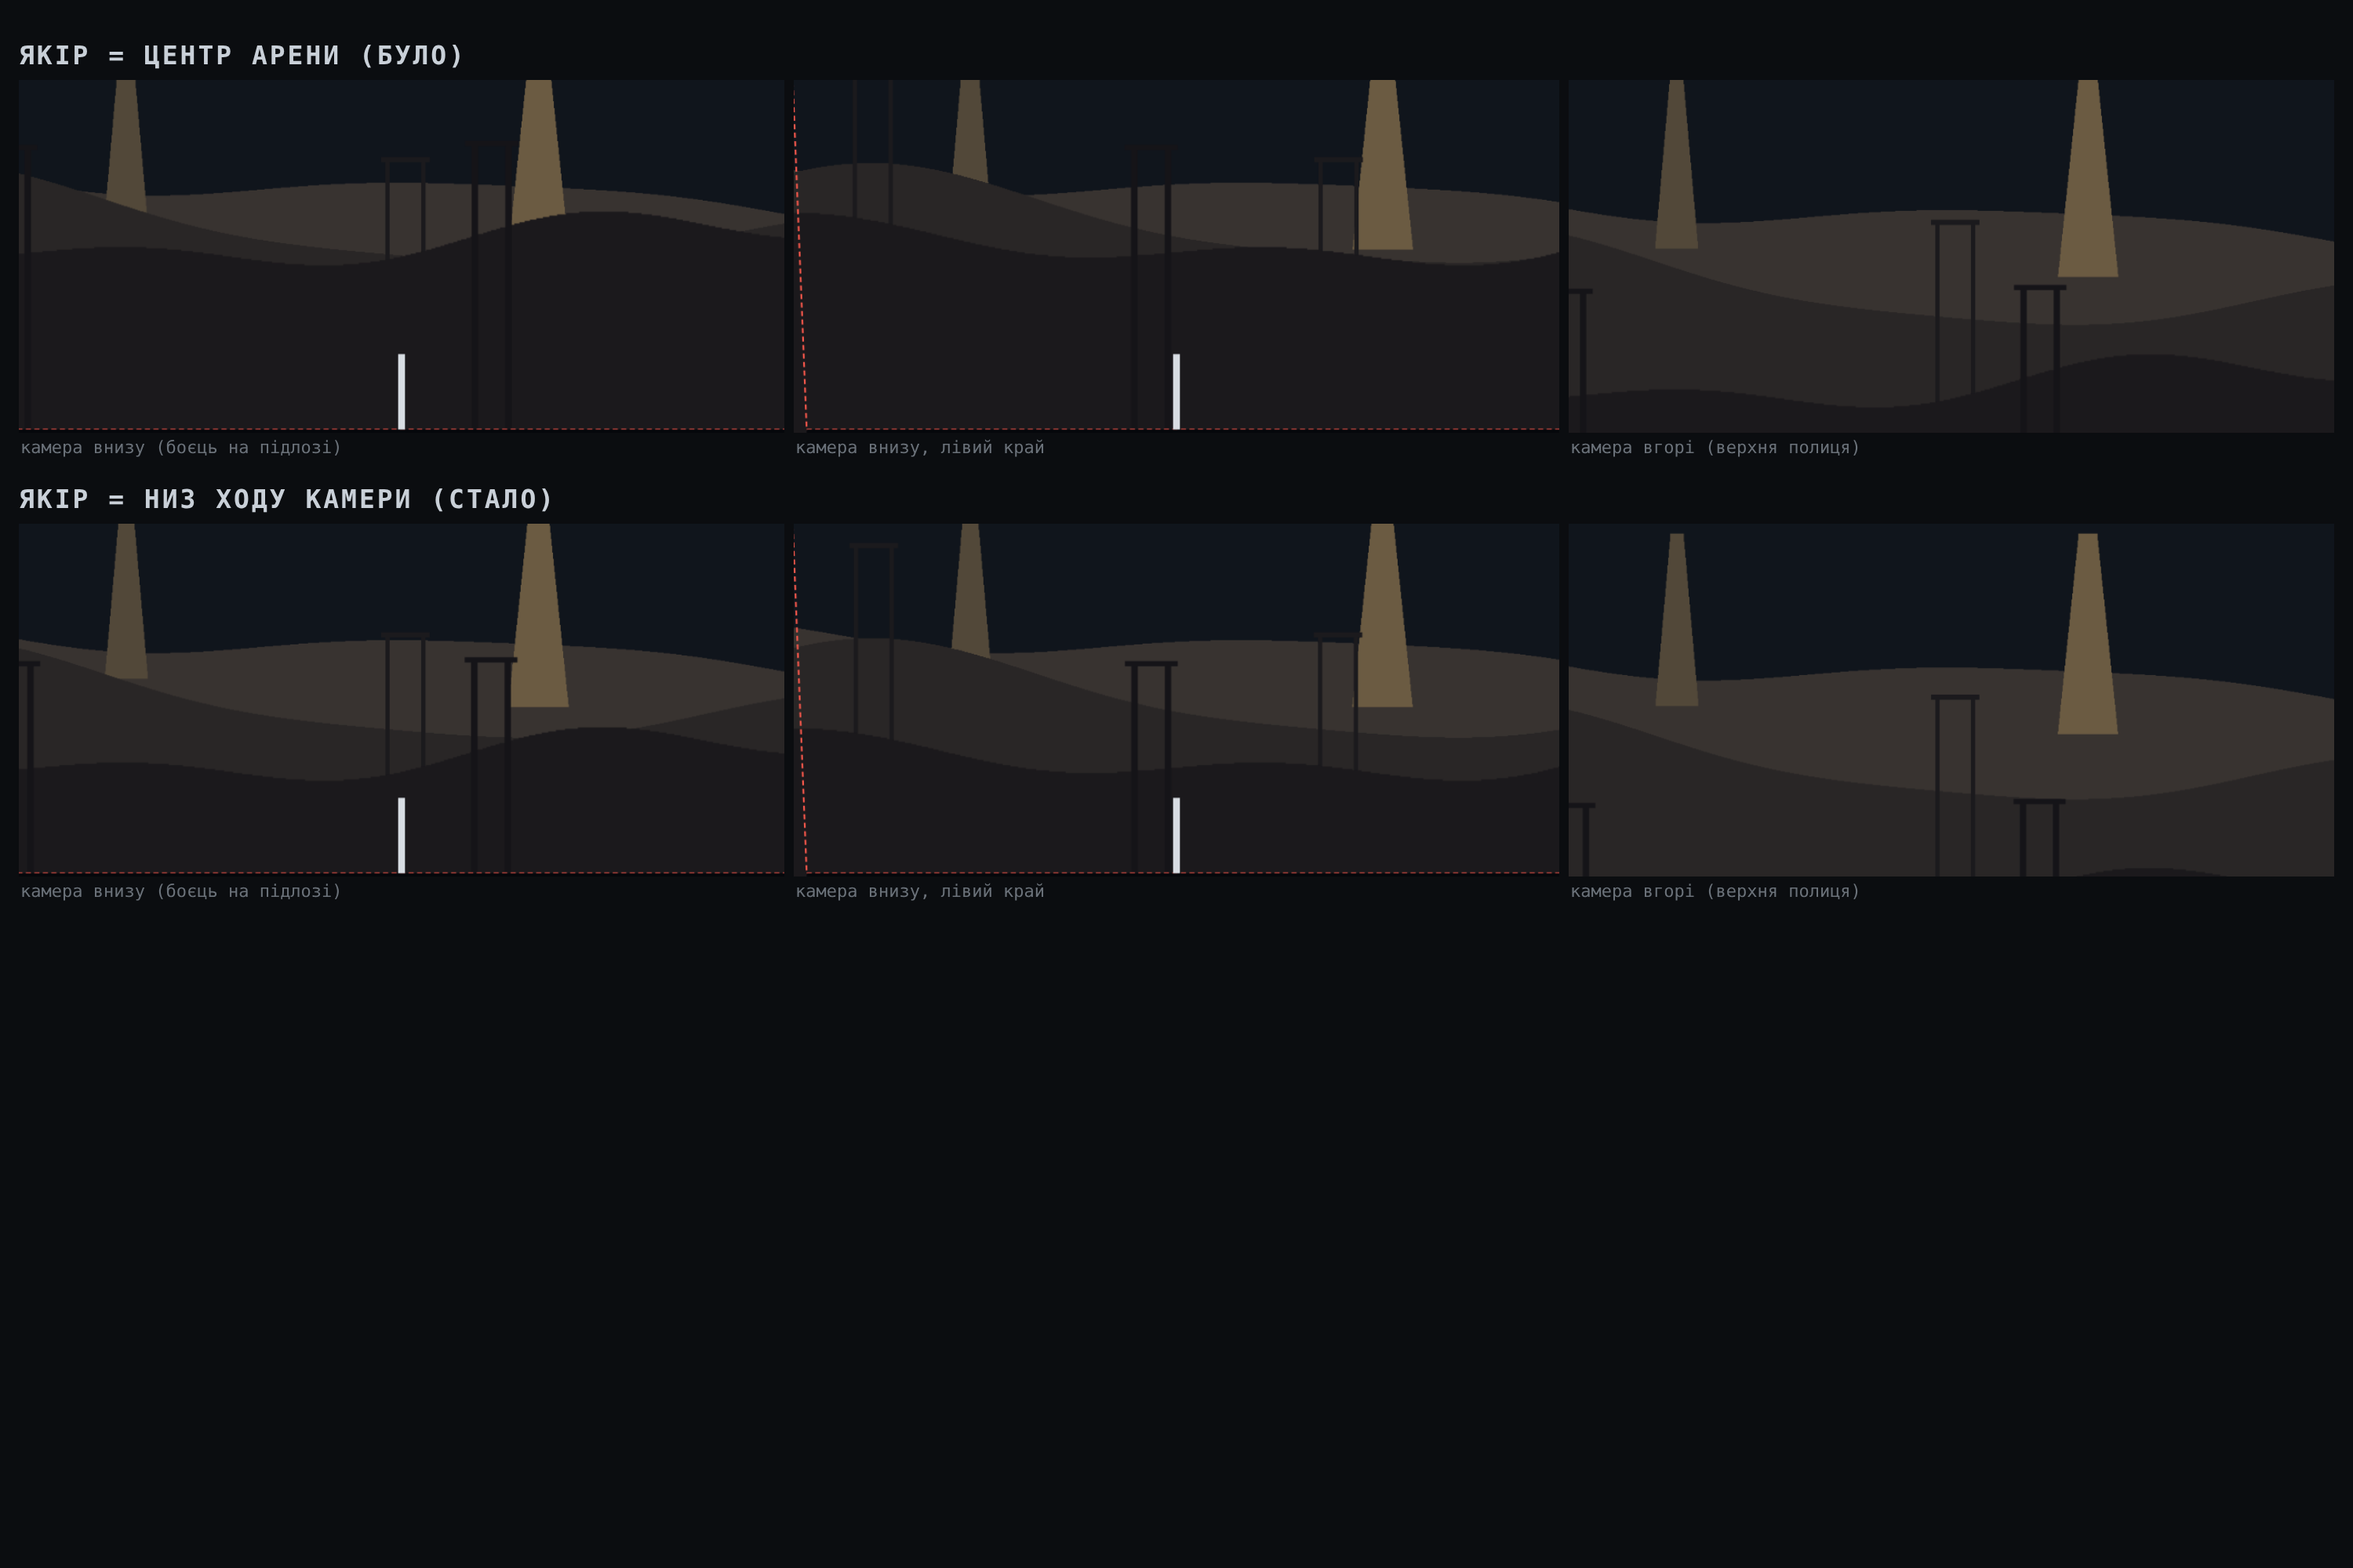
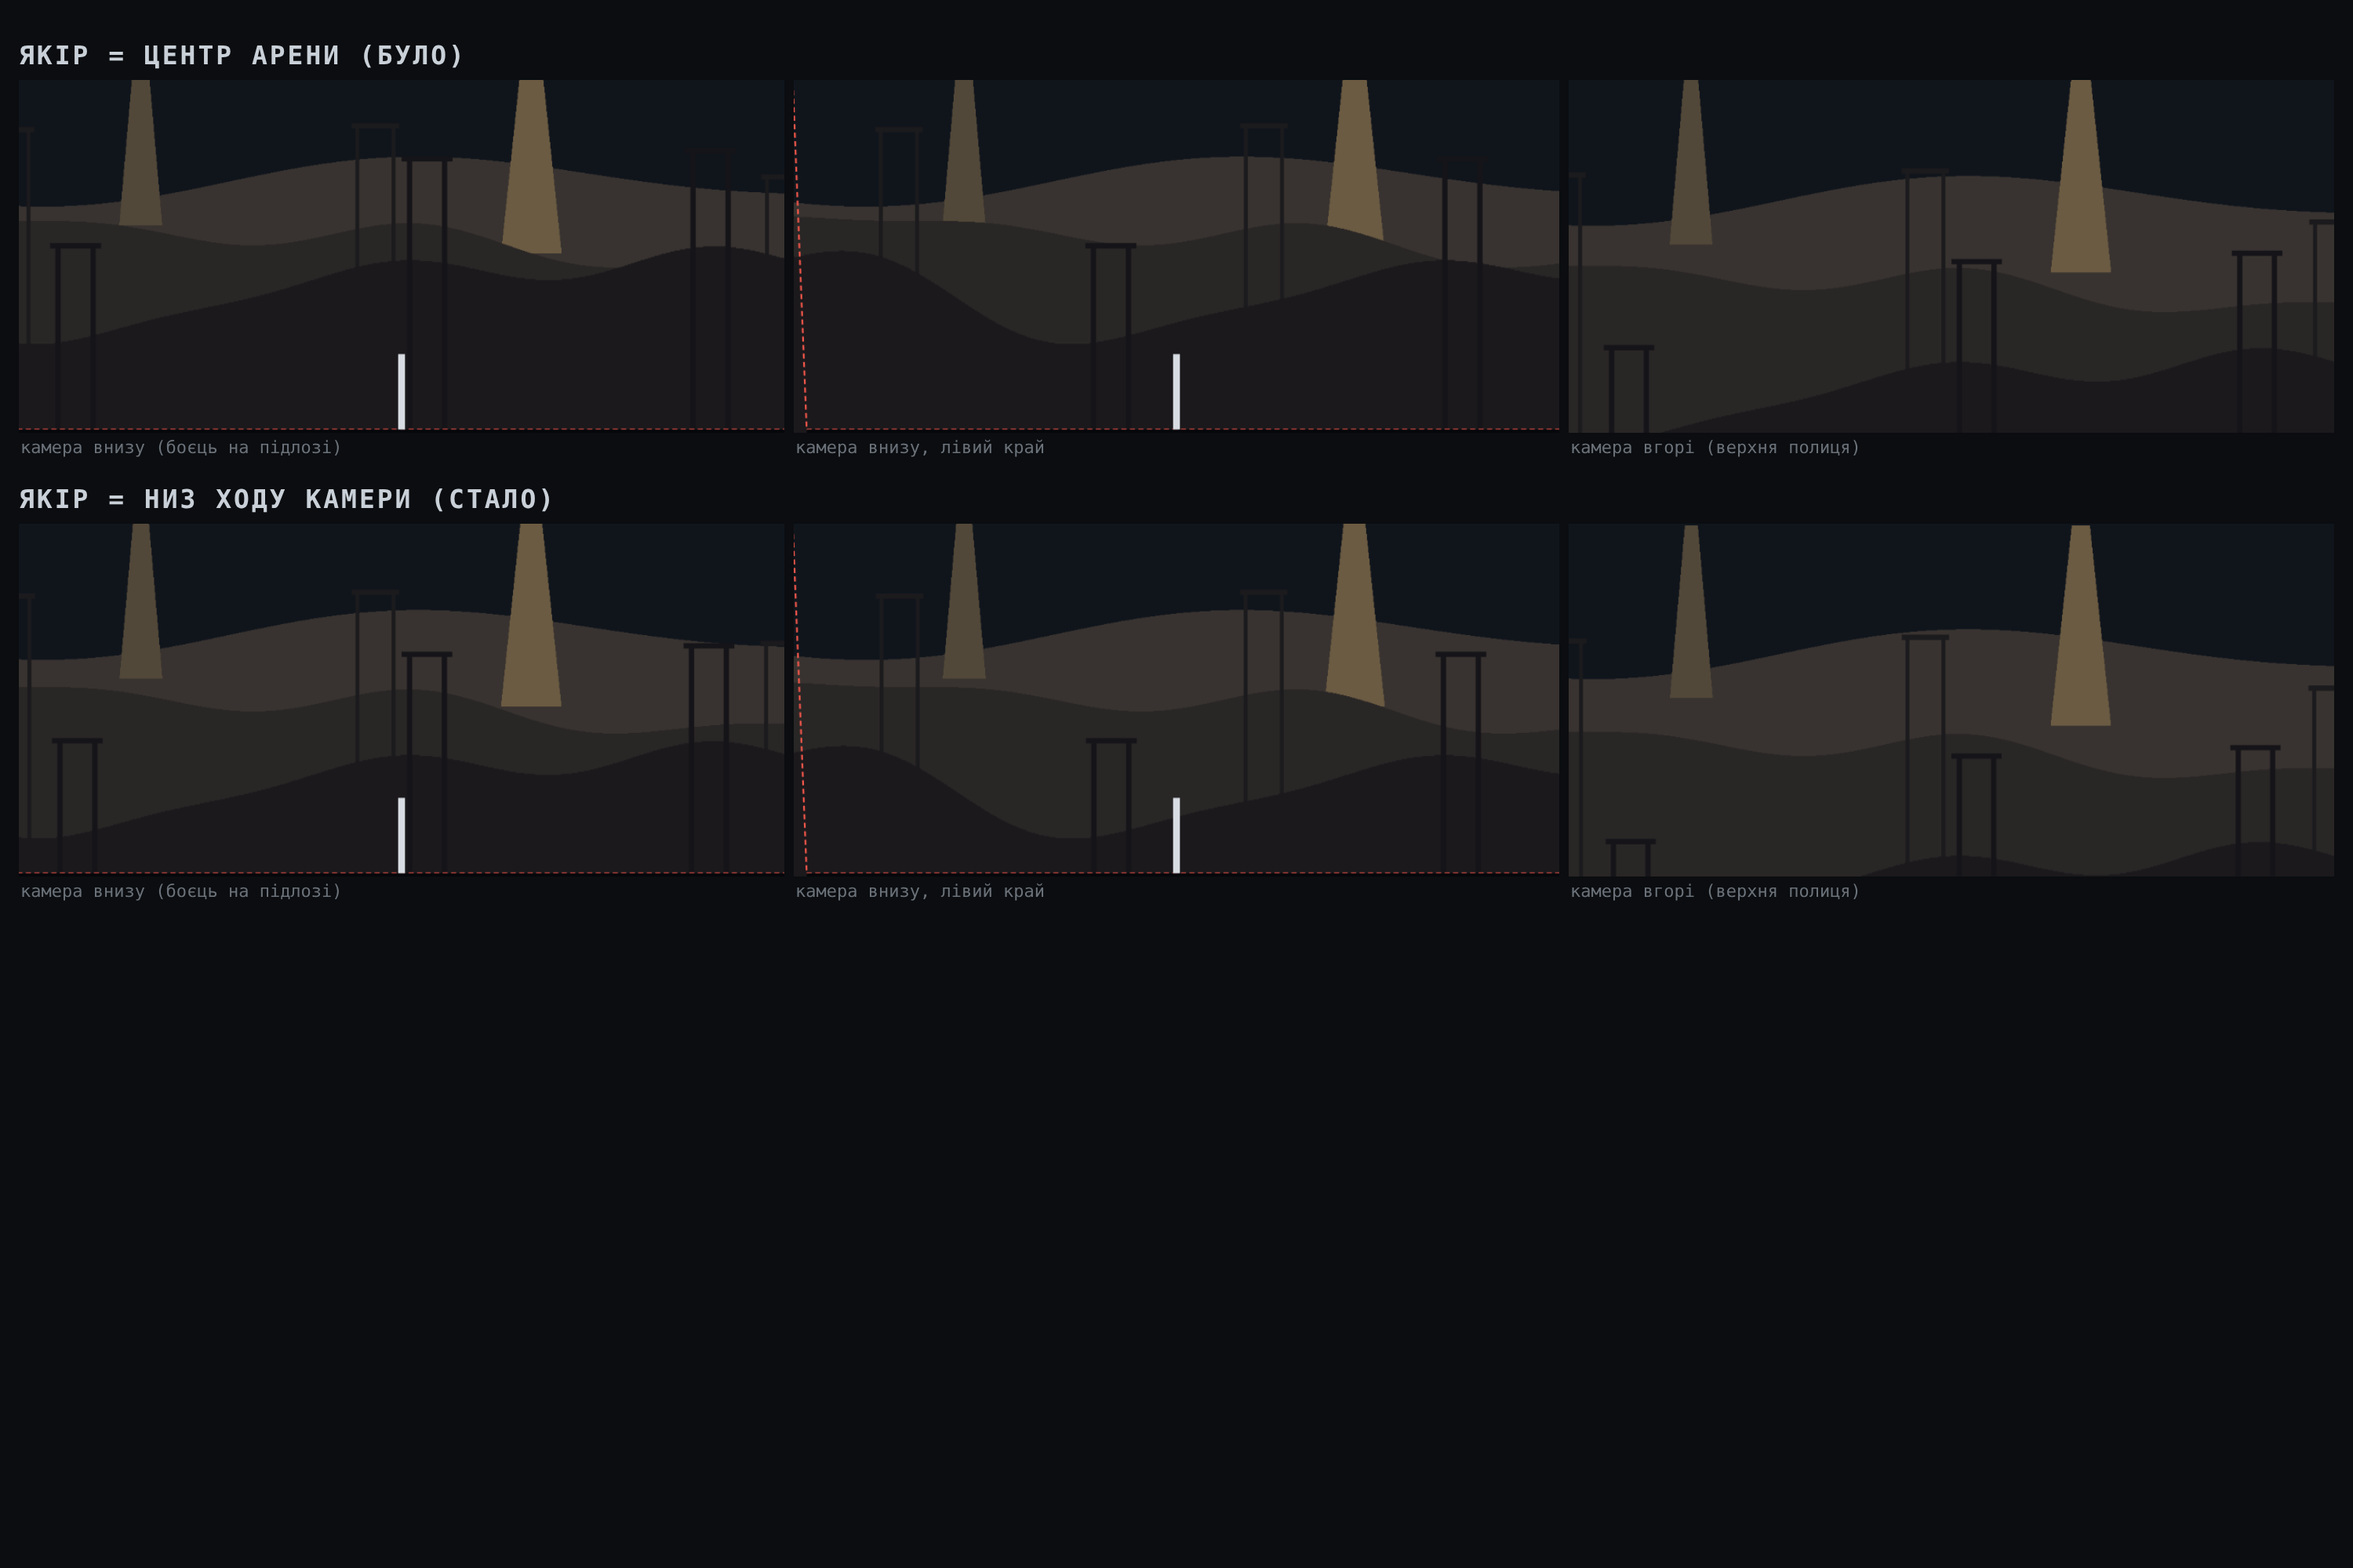
Armour on the floor was a grey box in every arena
GroundItemView shows a stand-in cube for any item with no model, and the
note on that field has claimed since it was written that "armour and the
bandage have no mesh in the weapon pack". That stopped being true. Low-
Poly Medieval Market ships a torso and THREE helmets, and not one of
them is wired into any scene -- so ten of the game's twenty-two items
land on the floor as a box. That is the whole of "armour shows as items
in some scenes and as squares in others": the weapons were wired and the
armour never was.

The three helmets map one to one, which is what makes this worth doing.
The three body armours share the pack's single torso -- a leather vest,
a mail shirt and a plate cuirass against one mesh -- so they differ by
TINT, pulled along the same Common-to-leather ramp the HUD already uses,
so the floor and the interface agree about which is the better one.

The belts and the bandage keep the box. The pack has no mesh for either,
and a box that is honest about being a box beats a shoulder pad
pretending to be a belt.

  Tools > Gulag Runners > Setup > Give the armour a model

Claude-Session: https://claude.ai/code/session_01BQsqFCd5YG1VUUzkGyZePc

Changed region(s): [[0.0, 0.31, 0.992, 0.496], [0.0, 0.031, 0.651, 0.186], [0.651, 0.062, 0.992, 0.186]]

diff --git a/Gulag runners/Assets/_Game/Editor/ArmourModelSetup.cs b/Gulag runners/Assets/_Game/Editor/ArmourModelSetup.cs
@@ -1,0 +1,142 @@
+using System.Collections.Generic;
+using UnityEditor;
+using UnityEditor.SceneManagement;
+using UnityEngine;
+using UnityEngine.SceneManagement;
+using GulagRunners.Game;
+using GulagRunners.Sim;
+
+namespace GulagRunners.GameEditor
+{
+    /// <summary>
+    /// Gives the armour on the floor a model, instead of the stand-in cube.
+    ///
+    /// GroundItemView shows a fallback box for any item with nothing authored for it, and
+    /// the note on that field has said since it was written that "armour and the bandage
+    /// have no mesh in the weapon pack". That stopped being true: Low-Poly Medieval Market
+    /// ships a body piece and THREE helmets, and not one of them is in any scene. So ten of
+    /// the game's twenty-two items -- every vest, every coif, every belt -- land on the
+    /// floor as a grey box, which is why armour reads as a square in one arena and as a
+    /// thing in another: the weapons are wired and the armour never was.
+    ///
+    /// WHAT MAPS AND WHAT DOES NOT. The three helmets map one to one, which is the whole
+    /// reason this is worth doing. The three body armours share the pack's single body
+    /// piece -- they are a leather vest, a mail shirt and a plate cuirass, and the pack has
+    /// one torso -- so they differ by TINT rather than by mesh, taken from the rarity ramp
+    /// that already colours them in the HUD. The belts and the bandage keep the stand-in,
+    /// because inventing a belt out of a shoulder pad would be worse than a box that is
+    /// honest about being a box.
+    /// </summary>
+    public static class ArmourModelSetup
+    {
+        const string Pack = "Assets/Low-Poly Medieval Market/Prefabs/Armor";
+
+        // Item, the pack prefab for it, and how much of the rarity colour to carry. One
+        // torso mesh has to serve three grades of body armour, so the tint is what tells
+        // a leather vest from a plate at a glance across a room.
+        static readonly (ItemId item, string prefab, float tint)[] Wiring =
+        {
+            (ItemId.LeatherVest, "armor.prefab",             0.85f),
+            (ItemId.Chainmail,   "armor.prefab",             0.45f),
+            (ItemId.Plate,       "armor.prefab",             0.15f),
+
+            (ItemId.LeatherCap,  "armor_gorget.prefab",      0.70f),
+            (ItemId.MailCoif,    "armor_helmet.prefab",      0.35f),
+            (ItemId.GreatHelm,   "helmet_visor_solo.prefab", 0.10f),
+        };
+
+        [MenuItem("Tools/Gulag Runners/Setup/Give the armour a model")]
+        public static void Run()
+        {
+            Scene scene = SceneManager.GetActiveScene();
+
+            GroundItemView[] views = Object.FindObjectsByType<GroundItemView>(
+                FindObjectsInactive.Include, FindObjectsSortMode.None);
+            if (views.Length == 0)
+            {
+                Debug.LogWarning($"{scene.name} has no GroundItemView in it, so there is "
+                                 + "nothing on the floor to dress.");
+                return;
+            }
+
+            List<string> missing = new List<string>();
+            int dressed = 0;
+
+            foreach (GroundItemView view in views)
+            {
+                List<ItemModel> models = new List<ItemModel>(
+                    view.models ?? new ItemModel[0]);
+
+                foreach ((ItemId item, string prefabName, float tint) in Wiring)
+                {
+                    if (models.Exists(m => m != null && m.item == item)) continue;
+
+                    GameObject prefab = AssetDatabase.LoadAssetAtPath<GameObject>(
+                        $"{Pack}/{prefabName}");
+                    if (prefab == null)
+                    {
+                        if (!missing.Contains(prefabName)) missing.Add(prefabName);
+                        continue;
+                    }
+
+                    GameObject made = (GameObject)PrefabUtility.InstantiatePrefab(
+                        prefab, view.transform);
+                    Undo.RegisterCreatedObjectUndo(made, "Give the armour a model");
+                    made.name = item.ToString();
+                    made.transform.localPosition = Vector3.zero;
+                    made.transform.localRotation = Quaternion.identity;
+
+                    // Off until an item of this kind is actually on this spot; Show() turns
+                    // exactly one of them on.
+                    made.SetActive(false);
+
+                    Tint(made, tint);
+
+                    models.Add(new ItemModel { item = item, root = made });
+                    dressed++;
+                }
+
+                Undo.RecordObject(view, "Give the armour a model");
+                view.models = models.ToArray();
+                EditorUtility.SetDirty(view);
+            }
+
+            EditorSceneManager.MarkSceneDirty(scene);
+
+            string said = $"Armour dressed in {scene.name}: {dressed} model(s) added across "
+                          + $"{views.Length} floor slot(s). The three helmets map one to one; "
+                          + "the three body armours share the pack's single torso and differ "
+                          + "by tint.";
+            if (missing.Count > 0)
+                said += "\n\nNOT FOUND in " + Pack + ": " + string.Join(", ", missing);
+            said += "\n\nThe belts and the bandage still show the stand-in box: the pack has "
+                    + "no mesh for either, and a box that is honest beats a shoulder pad "
+                    + "pretending to be a belt.";
+
+            Debug.Log(said);
+        }
+
+        /// <summary>
+        /// Pulls the model towards the rarity colour it already wears in the HUD, so one
+        /// torso mesh can be three grades of armour without three meshes.
+        /// </summary>
+        static void Tint(GameObject root, float towardsLeather)
+        {
+            // Leather is warm and dull, plate is cold and bright. The ramp between them is
+            // the same two ends the interface uses for Common and Rare, so the floor and
+            // the HUD agree about which is the better one.
+            Color leather = new Color(0.46f, 0.31f, 0.18f);
+            Color steel = UiPalette.Common;
+            Color want = Color.Lerp(steel, leather, Mathf.Clamp01(towardsLeather));
+
+            foreach (Renderer r in root.GetComponentsInChildren<Renderer>(true))
+            {
+                MaterialPropertyBlock block = new MaterialPropertyBlock();
+                r.GetPropertyBlock(block);
+                block.SetColor("_BaseColor", want);
+                block.SetColor("_Color", want);
+                r.SetPropertyBlock(block);
+            }
+        }
+    }
+}
